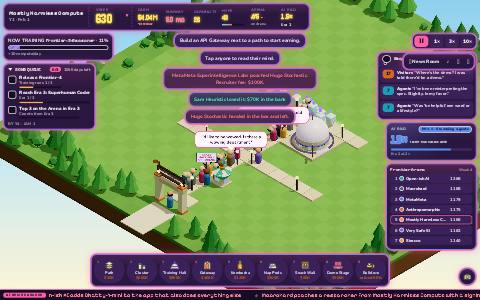
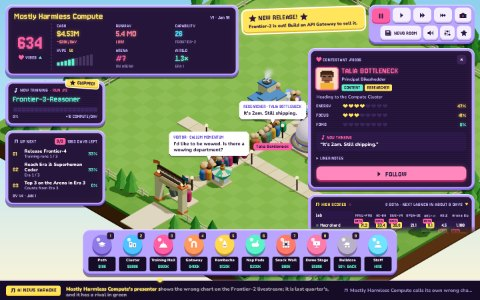
FLT-43: Karaoke Night: end-of-song score, preview image, phone polish

diff --git a/src/skins/karaoke-night/ticker.tsx b/src/skins/karaoke-night/ticker.tsx
@@ -8,7 +8,7 @@ import { reducedMotion } from "../kit";
 import { useT } from "../context";
 import type { SlotPropsMap } from "../types";
 import type { TickerItemVM } from "../../ui/hud/types";
-import { Notes } from "./art";
+import { Notes, Star } from "./art";
 
 /** How long a character takes to sing: about 14 a second, brisk but readable. */
 const MS_PER_CHAR = 70;
@@ -21,7 +21,7 @@ const HOLD_MS = 1500;
 /** How high the ball hops (px), and how far above the letters it lands (a phone's bar has less headroom). */
 const ARC = 14;
 const LAND = 5;
-const ARC_PHONE = 9;
+const ARC_PHONE = 6;
 const LAND_PHONE = 3;
 /** The biggest and smallest type of a line; a long headline shrinks to fit before it wraps. */
 const FS_MAX = 21;
@@ -46,6 +46,13 @@ export function schedule(text: string): { words: Timing[]; sing: number; total: 
     return { word, from, to: LEAD_MS + ((at - 1) / weight) * sing };
   });
   return { words: list, sing, total: LEAD_MS + sing };
+}
+
+/** The score the machine gives a line when it is done, like the end of a song: good news sings well, bad news is off-key. Pure decoration. */
+const SCORES: Record<TickerItemVM["tone"], [low: number, span: number]> = { good: [90, 11], joke: [80, 20], neutral: [70, 26], bad: [55, 21] };
+export function rating(item: Pick<TickerItemVM, "id" | "tone">): number {
+  const [low, span] = SCORES[item.tone];
+  return low + ((item.id * 2654435761) >>> 0) % span;
 }
 
 /** The headline after `curId`: the oldest one nobody has sung yet, else the next in the tape (wrapping round). */
@@ -207,6 +214,7 @@ export function Ticker({ items }: SlotPropsMap["Ticker"]) {
 
   const next = pick(items, item?.id ?? null, seenMax.current);
   const words = item ? item.text.trim().split(/\s+/).filter(Boolean) : [];
+  const done = item ? Math.round(schedule(item.text).total) : 0;
   return (
     <div className="kn-ticker" role="marquee" aria-label={t("ticker.aria")}>
       <span className="kn-label">
@@ -225,6 +233,9 @@ export function Ticker({ items }: SlotPropsMap["Ticker"]) {
                 </span>{" "}
               </Fragment>
             ))}
+            <span className="kn-rate" style={{ animationDelay: `${done}ms` }} aria-hidden>
+              <Star /> {rating(item)}
+            </span>
             <span className="kn-ball" ref={ball} aria-hidden>
               <i ref={hop} />
             </span>

diff --git a/src/skins/karaoke-night/skin.css b/src/skins/karaoke-night/skin.css
@@ -476,7 +476,7 @@
   }
   .kn-stamp {
     position: absolute;
-    left: 12px;
+    right: 12px;
     top: -14px;
     z-index: 2;
     display: inline-flex;
@@ -490,8 +490,12 @@
     box-shadow:
       inset 0 -3px 0 var(--kn-lemon-lo),
       0 0 0 3px #fff;
-    transform: rotate(-4deg);
+    transform: rotate(4deg);
     animation: karaoke-night-pop 0.5s cubic-bezier(0.3, 1.6, 0.5, 1);
+  }
+  /* The sticker takes the corner the time remaining sits in. */
+  .kn-training.shipped .kn-eta {
+    visibility: hidden;
   }
   .kn-queue-head {
     width: 100%;
@@ -1327,7 +1331,26 @@
       text-shadow: 0 0 6px color-mix(in srgb, var(--sung) 45%, transparent);
     }
   }
+  /* The score at the end of the song. */
+  .kn-rate {
+    display: inline-flex;
+    align-items: center;
+    gap: 4px;
+    margin-left: 10px;
+    padding: 0 8px 1px;
+    border-radius: 6px;
+    background: var(--sung);
+    color: var(--kn-plum);
+    font: 400 22px/1.15 var(--kn-num);
+    vertical-align: middle;
+    opacity: 0;
+    animation: karaoke-night-rate 0.45s cubic-bezier(0.3, 1.6, 0.5, 1) both;
+  }
   .kn-line[data-still] {
+    .kn-rate {
+      opacity: 1;
+      animation: none;
+    }
     .kn-lit,
     .kn-lit > span {
       transform: none;
@@ -2571,7 +2594,7 @@
       flex: none;
       display: grid;
       place-items: center;
-      width: 40px;
+      width: 44px;
       height: 44px;
       border: 0;
       border-radius: 10px;
@@ -2766,6 +2789,7 @@
       border-width: 4px;
       border-radius: 16px;
       &:not(.open) {
+        overflow: visible;
         .thoughts-title,
         .thoughts-caret {
           display: none;
@@ -2942,7 +2966,7 @@
     }
     .kn-label {
       position: absolute;
-      left: 12px;
+      right: 12px;
       bottom: 100%;
       padding: 3px 10px 2px;
       border-radius: 8px 8px 0 0;
@@ -2951,6 +2975,12 @@
     }
     .kn-line {
       padding-top: 12px;
+    }
+    .kn-ball i {
+      left: -5px;
+      top: -10px;
+      width: 10px;
+      height: 10px;
     }
 
     /* The cards. */
@@ -3039,6 +3069,16 @@
   }
   75% {
     translate: 3px 0;
+  }
+}
+@keyframes karaoke-night-rate {
+  from {
+    opacity: 0;
+    scale: 0.4;
+  }
+  to {
+    opacity: 1;
+    scale: 1;
   }
 }
 @keyframes karaoke-night-blink {

diff --git a/src/skins/karaoke-night/slots.test.tsx b/src/skins/karaoke-night/slots.test.tsx
@@ -11,7 +11,7 @@ import { SkinProvider } from "../context";
 import { read } from "../files";
 import { prepareSkin } from "../registry";
 import type { LoadedSkin } from "../types";
-import { pick, schedule } from "./ticker";
+import { pick, rating, schedule } from "./ticker";
 
 const actions = new Proxy({}, { get: () => () => undefined }) as HudActions;
 const vm: HudVM = hudViewModel(fixtureInput({ tool: "hall" }));
@@ -204,6 +204,20 @@ describe("AI News Karaoke", () => {
     expect(out).toContain("Older news that is teased");
     // The lit copy is for the eyes only: a screen reader reads each word once.
     expect(out.match(/class="kn-lit" aria-hidden/g)?.length).toBe(9);
+  });
+
+  it("gives each line a score at the end, the same one every time, higher for good news than for bad", () => {
+    for (const tone of ["good", "joke", "neutral", "bad"] as const) {
+      for (let id = 1; id < 60; id++) {
+        const r = rating({ id, tone });
+        expect(r).toBeGreaterThanOrEqual(55);
+        expect(r).toBeLessThanOrEqual(100);
+        expect(rating({ id, tone })).toBe(r);
+      }
+    }
+    expect(rating({ id: 7, tone: "good" })).toBeGreaterThan(rating({ id: 7, tone: "bad" }));
+    const out = html(<slot.Ticker items={[{ id: 7, text: "Good news", tone: "good" }]} actions={actions} />);
+    expect(out).toContain('class="kn-rate"');
   });
 
   it("stays on its feet with nothing to sing", () => {
